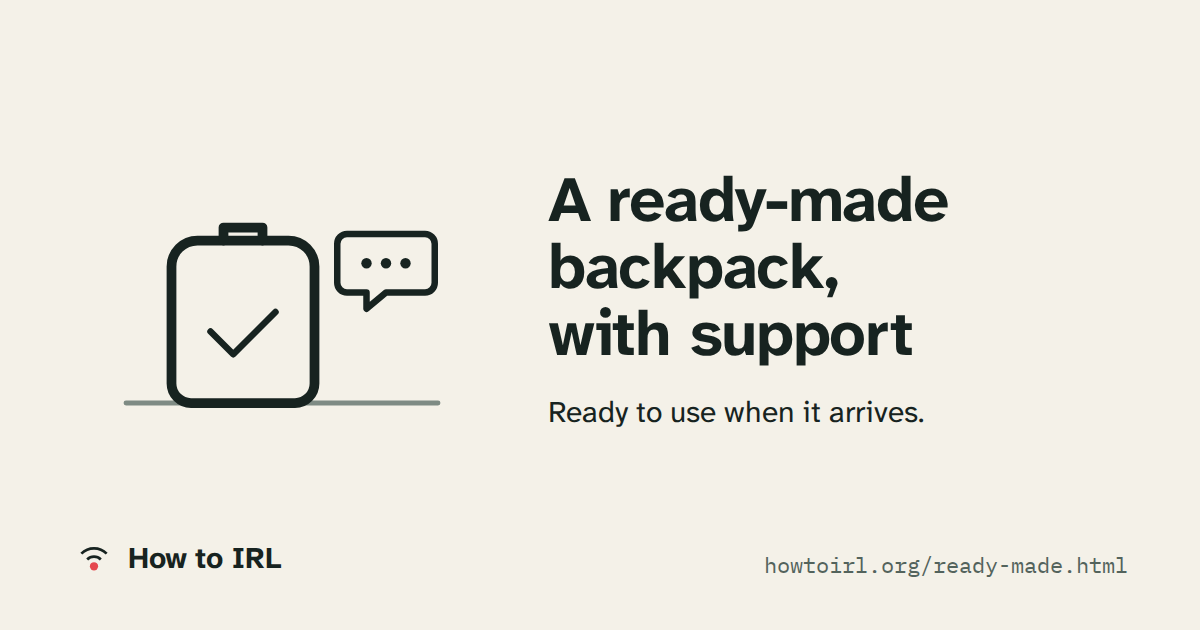
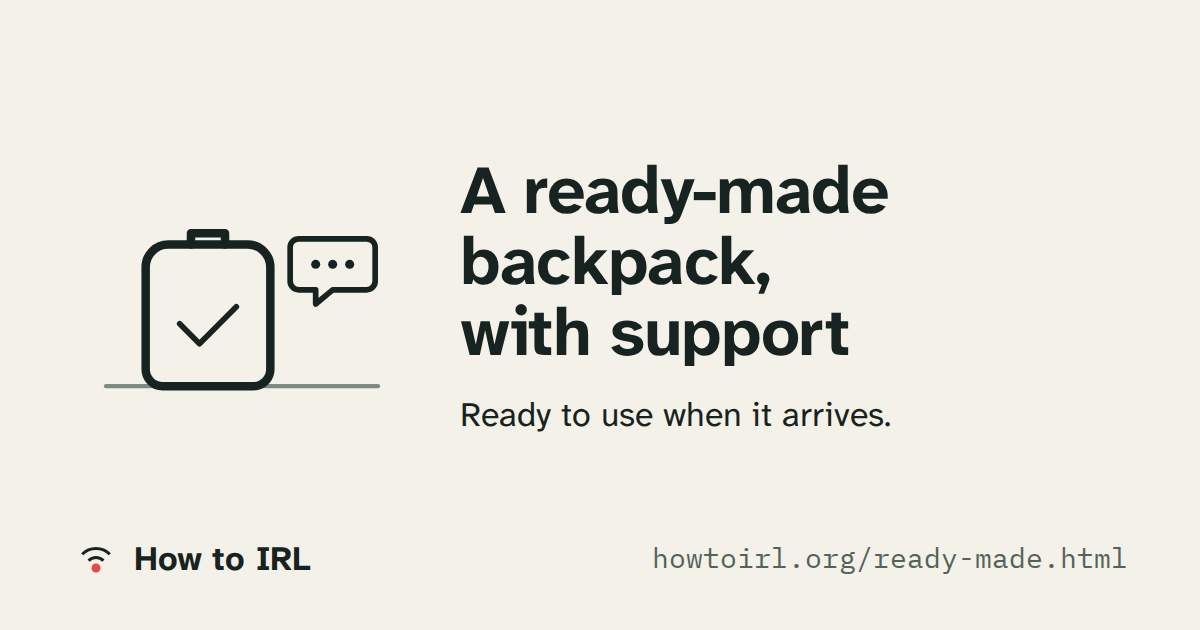
Give every page a share card and complete link preview tags (#22)

Changed region(s): [[0.0925, 0.2714, 0.8017, 0.6937], [0.5242, 0.8746, 0.9558, 0.9349], [0.0617, 0.8444, 0.2775, 0.9048]]

diff --git a/scripts/share.py b/scripts/share.py
@@ -1,0 +1,82 @@
+"""Link previews: what every page's share image shows, and the address src/components/Head.astro gives it.
+
+Every page in site.json gets a card of its own (its h1, the first sentence of its lede or summary, and its drawing),
+unless src/pages.yaml says `share: site` for it; those pages share the site card. `share_icon` and `share_line` choose
+the drawing and line where a page has none of its own or its own is too long. The manifest goes to
+.generated/share.json: src/components/Head.astro writes the Open Graph and X card tags from it, and
+scripts/share-images.mjs renders its cards into public/assets/share/. The image address carries a hash of the PNG, so a
+changed card gets a new address and chat apps fetch it again instead of showing their cached copy."""
+import hashlib, html, pathlib, re, sys
+
+ROOT = pathlib.Path(__file__).resolve().parents[1]
+SIZE = (1200, 630)
+SITE_CARD = 'assets/share/site.png'
+LONG = 120
+
+
+def plain(t: str) -> str:
+    return re.sub(r'\s+', ' ', html.unescape(re.sub(r'<[^>]+>', '', t))).replace('', '').strip()
+
+
+def first_sentence(t: str) -> str:
+    """The first sentence; a long one only up to its colon, so it fits three lines of the card."""
+    t = re.split(r'(?<=[.!?])\s', t)[0]
+    return t.split(': ')[0] + '.' if len(t) > LONG and ': ' in t else t
+
+
+def home_cards(setup: dict) -> dict:
+    """The Home page cards by the page they open, for their drawing and line."""
+    return {c['href'] if c.get('href') else f'{c["to"]}.html': c for g in setup['groups'] for c in g['cards']}
+
+
+def card(name: str, meta: dict, body: str, cards: dict, domain: str) -> dict:
+    """What the page's own share image shows, from the built page body and the Home card that opens it."""
+    home = cards.get(name, {})
+    head = re.search(r'<header class="page-head">[\s\S]*?</header>|<div class="result-head">[\s\S]*?<p class="sum">[\s\S]*?</p>', body)
+    head = head[0] if head else body
+    h1 = re.search(r'<h1\b[^>]*>([\s\S]*?)</h1>', head)
+    if not h1:
+        sys.exit(f'{name}: a page with its own share image needs an h1')
+    lede = re.search(r'<p class="(?:lede|sum)"[^>]*>([\s\S]*?)</p>', head)
+    line = meta.get('share_line') or (first_sentence(plain(lede[1])) if lede else plain(home.get('text', ''))
+                                       or first_sentence(meta['description']))
+    drawn = re.search(r'^<div class="result-head">\s*<svg class="ill[^"]*"[^>]*><use href="#([a-z0-9-]+)"', head)
+    icon = meta.get('share_icon') or (drawn[1] if drawn else home.get('icon', ''))
+    url = f'{domain}/' + ('' if name == 'index.html' else name)
+    return {'kind': 'page', 'page': name, 'title': plain(h1[1]), 'line': line, 'icon': icon, 'url': url}
+
+
+def site_card(home: dict, domain: str, name: str) -> dict:
+    """The card the contact and legal pages share: the site's name and Home's description."""
+    return {'kind': 'site', 'page': 'index.html', 'title': name,
+            'line': home.get('share_line') or first_sentence(home['description']), 'icon': 'mark', 'url': domain}
+
+
+def image_of(name: str, meta: dict) -> str:
+    return SITE_CARD if meta.get('share') == 'site' else f'assets/share/{name.removesuffix(".html")}.png'
+
+
+def version(image: str) -> str:
+    """A short hash of the committed PNG; 'missing' until `npm run share-images` has made it (the tests then fail)."""
+    path = ROOT / 'public' / image
+    if not path.exists():
+        print(f'share image {image} is missing: run `npm run build && npm run share-images`', file=sys.stderr)
+        return 'missing'
+    return hashlib.sha256(path.read_bytes()).hexdigest()[:10]
+
+
+def manifest(pages: list[dict], rendered: dict, setup: dict, cfg: dict) -> dict:
+    """The card of every page in site.json, the image each page uses, and each image's hash and alt text."""
+    by_name = {p['name']: p for p in pages}
+    missing = [n for n in cfg['pages'] if n not in by_name]
+    if missing:
+        sys.exit('site.json pages without metadata in src/pages.yaml or content/setup.yaml: ' + ', '.join(missing))
+    cards, images, homes = {}, {}, home_cards(setup)
+    for name in cfg['pages']:
+        meta = by_name[name]
+        image = images[name] = image_of(name, meta)
+        if image not in cards:
+            cards[image] = (site_card(by_name['index.html'], cfg['domain'], cfg['name']) if image == SITE_CARD
+                            else card(name, meta, rendered[name], homes, cfg['domain']))
+    return {'size': list(SIZE), 'cards': cards, 'pages': images,
+            'images': {image: {'v': version(image), 'alt': f'{c["title"]}: {c["line"]}'} for image, c in cards.items()}}

diff --git a/scripts/prepare.py b/scripts/prepare.py
@@ -5,6 +5,7 @@ sys.path.insert(0,str(ROOT/'shared'))
 import render as r
 sys.path.insert(0,str(ROOT/'scripts'))
 import setup as setup_answers
+import share
 pkg=ROOT/'node_modules/@irl-commons/data'
 data={k:json.loads((pkg/'data'/f'{k}.json').read_text())[k] for k in ['words','services','guides','standards']}
 cfg=json.loads((ROOT/'site.json').read_text())
@@ -56,7 +57,12 @@ if missing:
 for name,body in answer_pages.items():
  rendered[name]=finish(body)
 (ROOT/'.generated').mkdir(exist_ok=True)
-(ROOT/'.generated/answer-pages.json').write_text(json.dumps(setup_answers.answer_meta(setup),ensure_ascii=False))
+answer_meta=setup_answers.answer_meta(setup)
+(ROOT/'.generated/answer-pages.json').write_text(json.dumps(answer_meta,ensure_ascii=False))
+# Every page gets its link preview tags and share image (scripts/share.py, src/components/Head.astro,
+# scripts/share-images.mjs).
+authored=[{'name':n,**m} for n,m in setup_answers.load_yaml(ROOT/'src/pages.yaml').items()]
+(ROOT/'.generated/share.json').write_text(json.dumps(share.manifest(authored+answer_meta,rendered,setup,cfg),ensure_ascii=False,indent=1))
 # The sitemap lists every page in site.json.
 (ROOT/'public/sitemap.xml').write_text('<?xml version="1.0" encoding="UTF-8"?>\n<urlset xmlns="http://www.sitemaps.org/schemas/sitemap/0.9">\n'
  +''.join(f'  <url><loc>https://{cfg["domain"]}/{"" if n=="index.html" else n}</loc></url>\n' for n in cfg['pages'])+'</urlset>\n')

diff --git a/scripts/setup.py b/scripts/setup.py
@@ -555,20 +555,9 @@ if __name__ == '__main__':
     sys.exit(1 if found else 0)
 
 
-def share_image(aid: str) -> str:
-    """The picture a chat app shows for a link to the page: its drawing, title and first line (scripts/share-images.mjs)."""
-    return f'assets/share/{aid}.png'
-
-
-def share_line(a: dict) -> str:
-    """The first sentence of the summary, for the description and the share image."""
-    return re.split(r'(?<=[.!?])\s', plain_text(a['summary']).strip())[0]
-
-
 def answer_meta(setup: dict) -> list[dict]:
-    """What each answer page's head needs (src/components/Head.astro): its own title, description and share image.
-    The rest of the page around it is Home's."""
-    return [{'name': page(a['id']), 'title': f'{a["title"]} · How to IRL', 'shareTitle': a['title'],
-             'description': plain_text(a['summary']).strip(), 'image': share_image(a['id']),
-             'imageAlt': f'{a["title"]}: {share_line(a)}', 'illustrations': 'home'}
+    """What each answer page's head needs (src/components/Head.astro): its own title and description. scripts/share.py
+    adds its share image. The rest of the page around it is Home's."""
+    return [{'name': page(a['id']), 'title': f'{a["title"]} · How to IRL',
+             'description': plain_text(a['summary']).strip(), 'illustrations': 'home'}
             for a in setup['answers']]

diff --git a/README.md b/README.md
@@ -46,9 +46,22 @@ selects by that tag, or when a note's service has left its block. A daily job
 every check and opens a pull request.
 
 Each answer is a page of its own, `<answer id>.html`, with the home page's header and footer and its own
-title, description and share image. A new answer needs its page in `site.json` (the build stops
-without it) and a share image: build, then run `npm run share-images` and commit
-`public/assets/share/`. Old links to an answer on the home page (`/#second-network`) still land.
+title and description. A new answer needs its page in `site.json` (the build stops without it).
+Old links to an answer on the home page (`/#second-network`) still land.
+
+## Link previews
+
+`src/components/Head.astro` writes the Open Graph and X card tags of every page from its metadata
+and `.generated/share.json`, which `scripts/share.py` builds. Each page gets a share image of its
+own: its h1, the first sentence of its lede or summary, and its drawing from the home page cards.
+Pages with `share: site` in `src/pages.yaml` (contact and legal pages) share one site card;
+`share_icon` and `share_line` choose the drawing and line where a page has none or its own is
+too long. After adding a page or changing a title or lede, run `npm run build`,
+`npm run share-images` and `npm run check`, then commit `public/assets/share/`. The image
+address carries a hash of the PNG, so chat apps fetch a changed card again. `npm test` fails when
+a page lacks a tag or its image, when an image is not 1200 by 630 pixels or no longer matches
+its page, or when an image is used by no page, and `npm run share-images` stops when text would
+be cut off.
 
 Edit prose in `content/` and each page's title, description, language and pager
 link in `src/pages.yaml`. The head, header with the site navigation, drawings,
